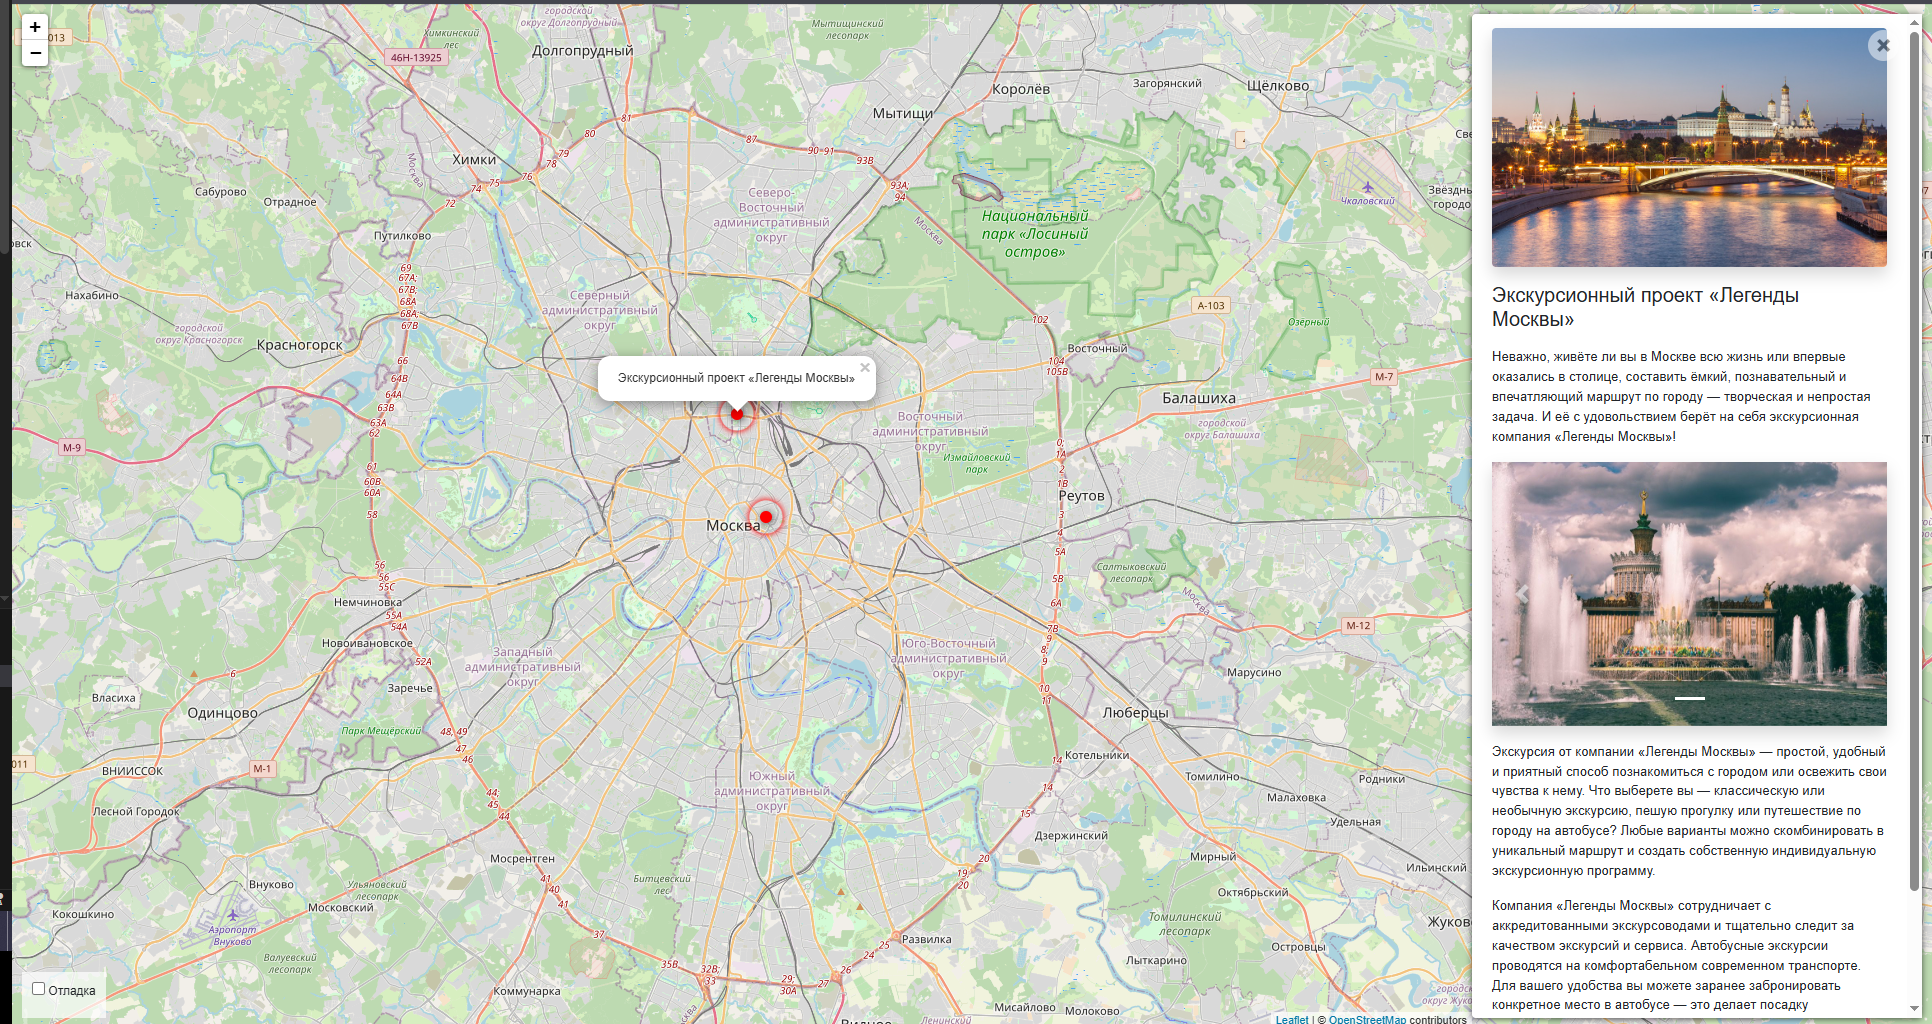
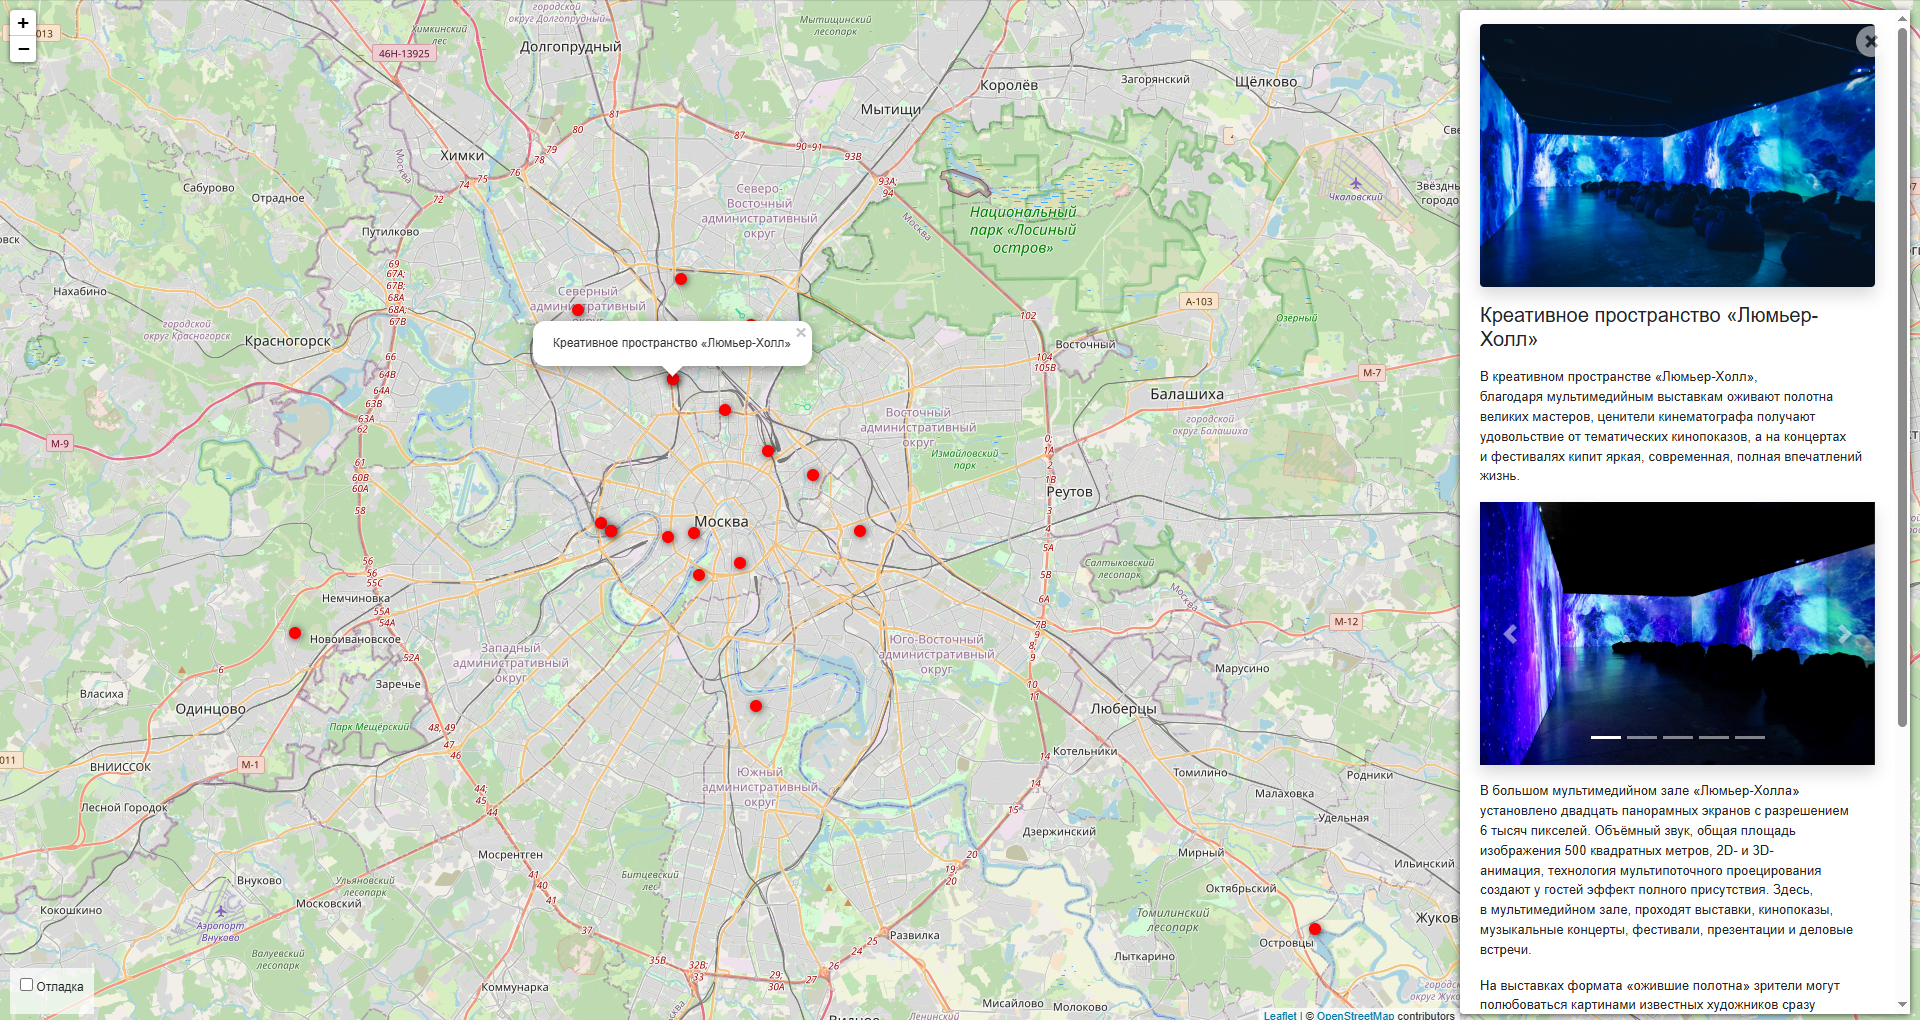
Uploaded more locations

diff --git a/places/management/commands/load_place.py b/places/management/commands/load_place.py
@@ -1,0 +1,79 @@
+# places/management/commands/load_place.py
+import requests
+from django.core.files.base import ContentFile
+from django.core.management.base import BaseCommand
+from places.models import Place, PlaceImage
+from urllib.parse import urljoin, urlparse
+
+
+class Command(BaseCommand):
+    help = 'Load place from JSON URL'
+
+    def add_arguments(self, parser):
+        parser.add_argument('url', type=str, help='URL to JSON file')
+
+    def handle(self, *args, **options):
+        url = options['url']
+        try:
+            response = requests.get(url)
+            response.raise_for_status()
+            place_data = response.json()
+        except requests.RequestException as e:
+            self.stderr.write(f'Error downloading JSON: {e}')
+            return
+        except ValueError as e:
+            self.stderr.write(f'Invalid JSON: {e}')
+            return
+
+        # Создаём или обновляем локацию
+        place, created = Place.objects.get_or_create(
+            name=place_data['title'],
+            defaults={
+                'description_short': place_data.get('description_short', ''),
+                'description_long': place_data.get('description_long', ''),
+                'lat': place_data['coordinates']['lat'],
+                'lng': place_data['coordinates']['lng'],
+            }
+        )
+
+        if not created:
+            # Обновляем данные, если локация уже существует
+            place.description_short = place_data.get('description_short', '')
+            place.description_long = place_data.get('description_long', '')
+            place.lat = place_data['coordinates']['lat']
+            place.lng = place_data['coordinates']['lng']
+            place.save()
+            self.stdout.write(f'Updated place: {place.name}')
+        else:
+            self.stdout.write(f'Created place: {place.name}')
+
+        # Загружаем изображения
+        for img_url in place_data.get('imgs', []):
+            try:
+                img_response = requests.get(img_url)
+                img_response.raise_for_status()
+
+                # Извлекаем имя файла из URL
+                filename = urlparse(img_url).path.split('/')[-1] or 'image.jpg'
+
+                # Создаём PlaceImage, если ещё не существует
+                image_obj, img_created = PlaceImage.objects.get_or_create(
+                    place=place,
+                    image=f'places/{filename}'
+                )
+
+                if img_created:
+                    # Сохраняем изображение в ImageField
+                    image_obj.image.save(
+                        filename,
+                        ContentFile(img_response.content),
+                        save=True
+                    )
+                    self.stdout.write(f'  Added image: {filename}')
+                else:
+                    self.stdout.write(f'  Image already exists: {filename}')
+
+            except requests.RequestException as e:
+                self.stderr.write(f'  Failed to download {img_url}: {e}')
+            except Exception as e:
+                self.stderr.write(f'  Error saving image: {e}')

diff --git a/load_all_places.py b/load_all_places.py
@@ -1,0 +1,33 @@
+# load_all_places.py
+import os
+import sys
+import django
+
+# Настраиваем Django
+os.environ.setdefault("DJANGO_SETTINGS_MODULE", "where_to_go.settings")
+django.setup()
+
+from places.management.commands.load_place import Command
+
+def main():
+    if len(sys.argv) != 2:
+        print("Использование: python load_all_places.py <файл_с_URL.txt>")
+        sys.exit(1)
+
+    urls_file = sys.argv[1]
+    with open(urls_file, "r", encoding="utf-8") as f:
+        urls = [line.strip() for line in f if line.strip()]
+
+    command = Command()
+    total = len(urls)
+    for i, url in enumerate(urls, 1):
+        print(f"\n[{i}/{total}] Загрузка: {url}")
+        try:
+            command.handle(url=url)
+        except Exception as e:
+            print(f"  ❌ Ошибка: {e}")
+
+    print(f"\n Успешно загружено {total} локаций!")
+
+if __name__ == "__main__":
+    main()

diff --git a/README.md b/README.md
@@ -45,4 +45,11 @@
     python manage.py runserver
     ```
 
-4. Откройте http://127.0.0.1:8000    
+4. Откройте http://127.0.0.1:8000
+
+## Загрузка данных
+
+Для загрузки локации из JSON-файла выполните:
+
+```bash
+python manage.py load_place https://raw.githubusercontent.com/devmanorg/where-to-go-places/master/places/moscow_legends.json       
